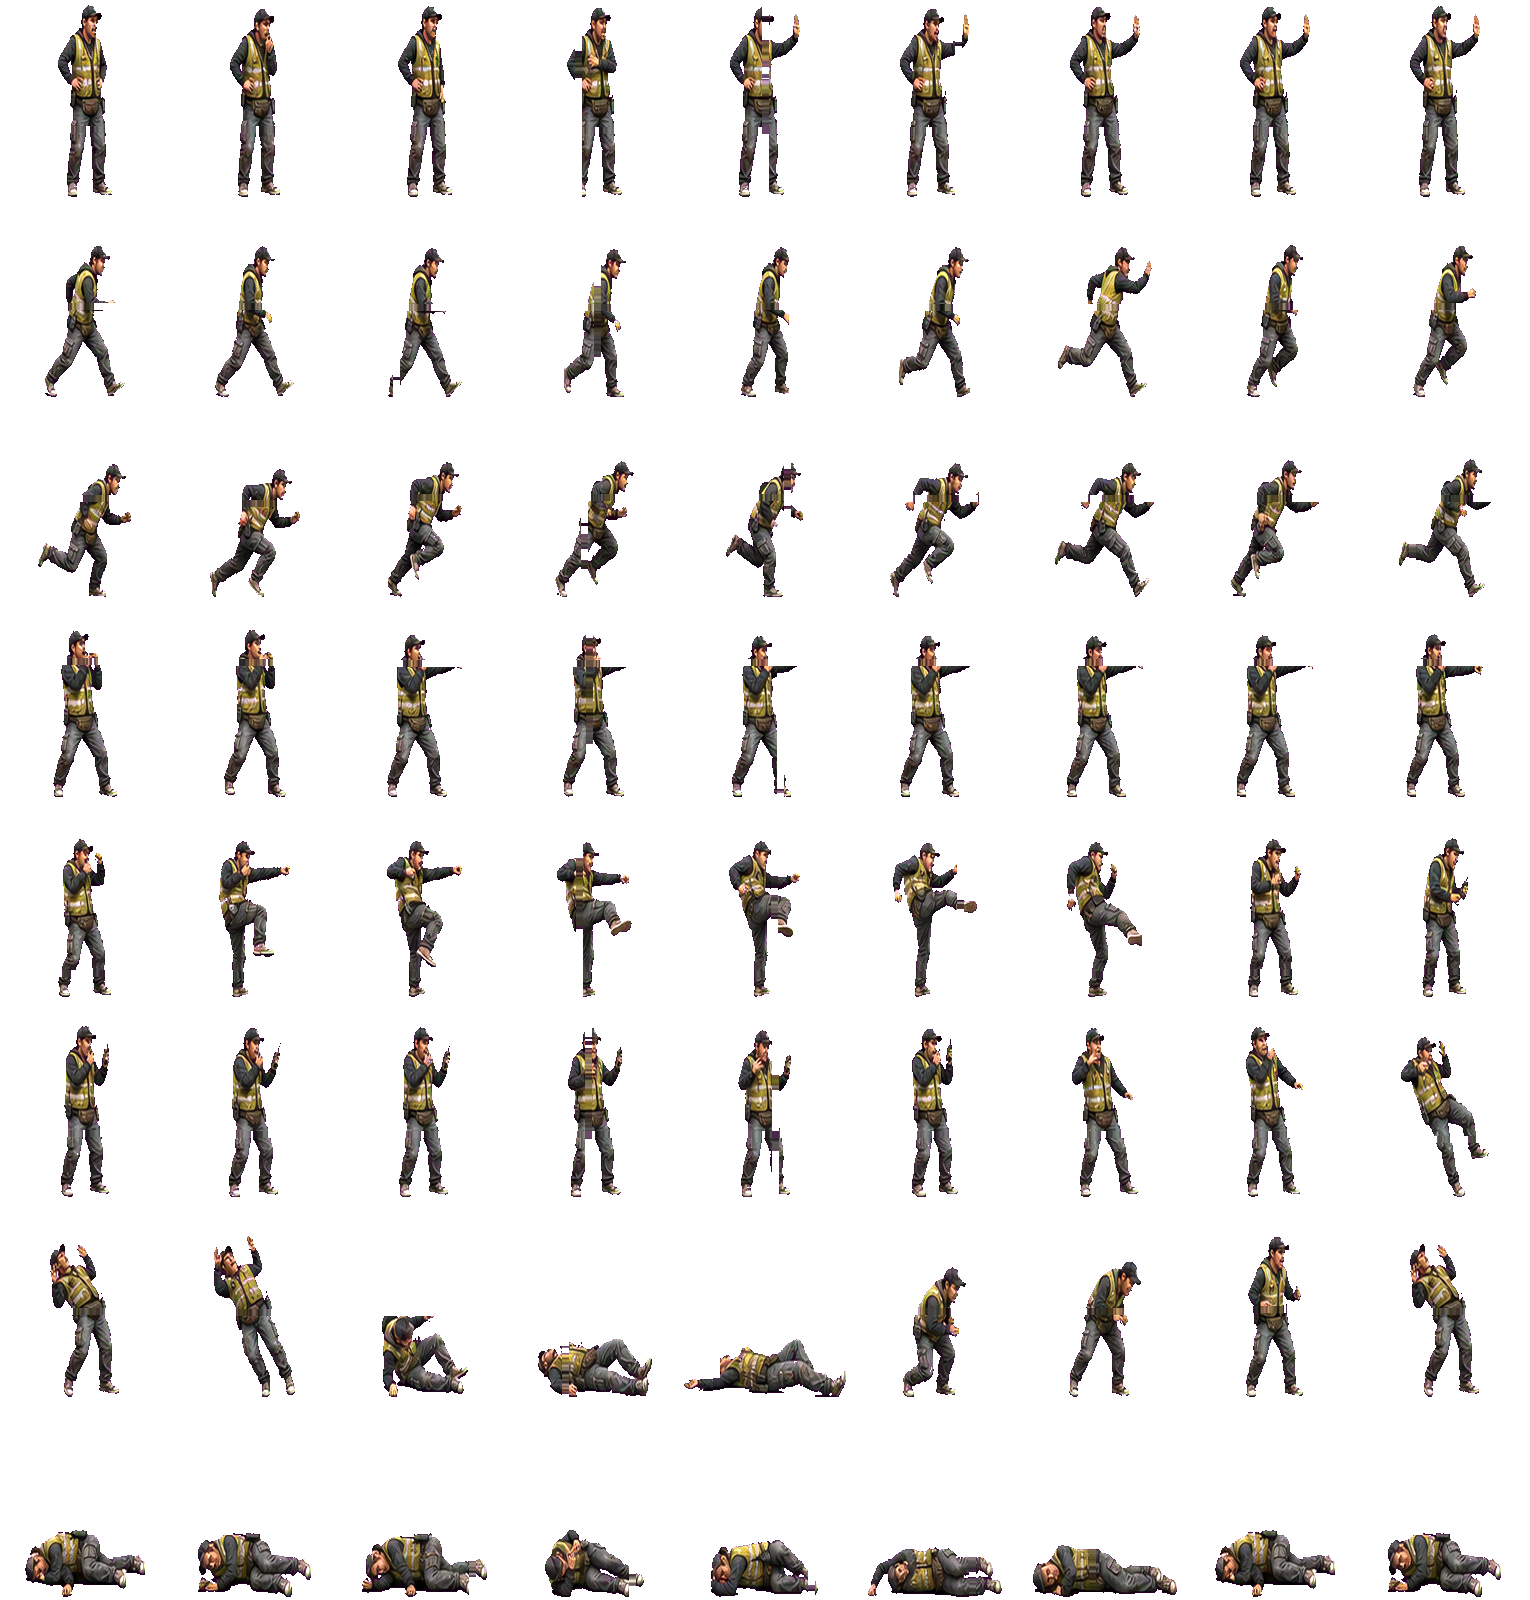
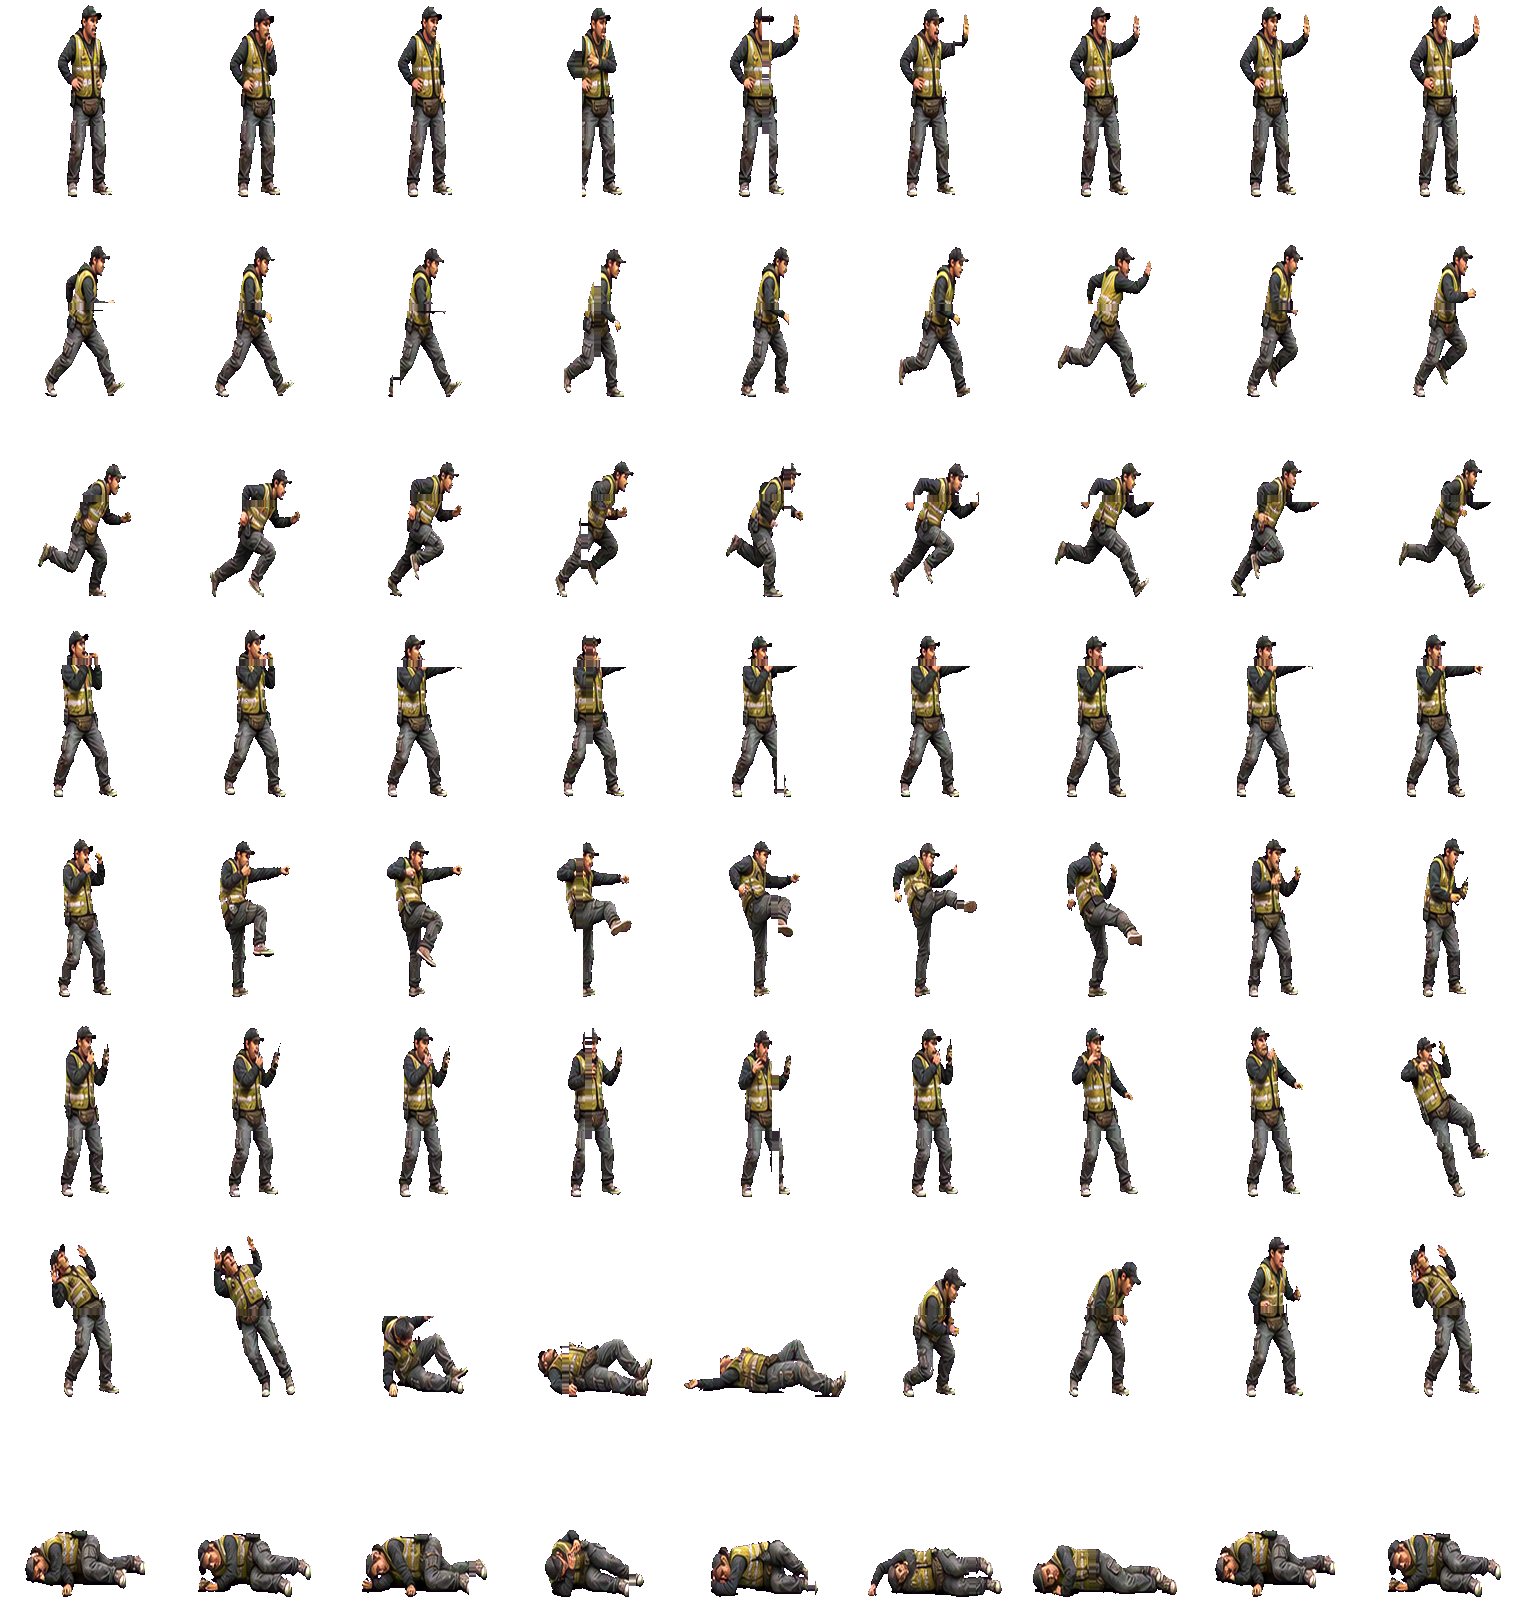
fix: de-magenta colour correction + proportional enemy HP bars (Hito 063)
Second anomaly pass, forcing every animation state with close-up captures.
The remaining defects were magenta contamination baked into the art itself
(worst on enemy_006's pink-lit shirt/skin, blotches on the miniboss pack,
fringes on the boss). Pixel-erasing approaches ate legitimate pink
clothing or left holes, so the fix is a de-magenta colour correction: the
mauve excess min(r-g, b-g) is reduced 70%, turning contamination warm-tan
while leaving true reds and blues untouched — recolours, never erases.
Enemy HP bars now scale with the fighter's rendered width so bosses don't
wear grunt-sized slivers.

Claude-Session: https://claude.ai/code/session_015d4moUT3CZTVWv6A6eLtPh

diff --git a/src/game/scenes/GameScene.ts b/src/game/scenes/GameScene.ts
@@ -920,17 +920,19 @@ export class GameScene extends Phaser.Scene {
       if (state === 'hurt') sprite.setTint(0xff8888);
       else sprite.setTint(enemyTint(this.stageId, enemy.spriteKey, enemy.type));
 
-      // HP bar above the character (relative to the rendered sprite height so
-      // it tracks the fighter's head at any scale)
+      // HP bar above the character: anchored to the rendered sprite height so
+      // it tracks the head, and sized with the fighter so a boss doesn't wear
+      // a grunt-sized sliver.
       const h = sprite.displayHeight * 0.82;
+      const barW = Math.max(40, Math.min(96, Math.round(sprite.displayWidth * 0.42)));
       const hpRatio = enemy.hp / enemy.maxHp;
       hud.clear();
       hud.fillStyle(0x000000, 0.6);
-      hud.fillRect(screenX - 22, screenY - h - 12, 44, 6);
+      hud.fillRect(screenX - barW / 2 - 2, screenY - h - 12, barW + 4, 6);
       hud.fillStyle(0x222222, 1);
-      hud.fillRect(screenX - 20, screenY - h - 11, 40, 4);
+      hud.fillRect(screenX - barW / 2, screenY - h - 11, barW, 4);
       hud.fillStyle(hpRatio > 0.5 ? 0x22cc44 : hpRatio > 0.25 ? 0xccaa22 : 0xcc2222, 1);
-      hud.fillRect(screenX - 20, screenY - h - 11, Math.round(40 * hpRatio), 4);
+      hud.fillRect(screenX - barW / 2, screenY - h - 11, Math.round(barW * hpRatio), 4);
       hud.setDepth(enemy.pos.y + 1);
 
       // Elite tag floats just above the HP bar, gently bobbing for visibility.

diff --git a/docs/PRODUCTION_STATE.md b/docs/PRODUCTION_STATE.md
@@ -947,6 +947,26 @@
   personajes (depth y+400); el menú de pausa está limpio
 - 440 tests en verde; typecheck/lint/build limpios
 
+### HITO 063 — Segunda pasada de anomalías: contaminación magenta y HUD ✅
+- Segundo barrido, esta vez forzando **cada estado de animación** con primeros
+  planos: jugador (esquiva, especial, herido, caído, levantada) y enemigos
+  (los 8 tipos + ataque/herido/derribo/levantada del grunt + mini-boss + boss
+  + elite). Los estados verificados se ven correctos
+- **Contaminación magenta EN el arte** (peor caso: enemy_006, con camisa y
+  piel rosadas por luz del fondo del generador; manchas violetas en la
+  mochila del mini-boss; flecos en el boss). Dos intentos de borrado de
+  píxeles (global y de borde) fueron descartados con evidencia porque comían
+  ropa rosa legítima o dejaban agujeros. Solución final: **corrección de
+  color de-magenta** — para todo píxel opaco, el exceso mauve
+  `min(r−g, b−g)` se reduce un 70 %: el rosa contaminado vira a tostado, los
+  rojos (b≈g) y azules (r≈g) legítimos quedan intactos; recolorea, nunca
+  borra. Geometría idéntica (grillas sin cambios)
+- Resultado verificado in-game: changuero coherente (delantal tostado),
+  mini-boss sin manchas violetas, boss limpio de flecos
+- **Barra de HP enemiga proporcional**: ancho `displayWidth × 0.42`
+  (clamp 40–96) — un boss ya no lleva la barrita de un grunt
+- 440 tests en verde; typecheck/lint/build limpios
+
 ## HITOS PENDIENTES
 
 - ... (hitos 052-060)
